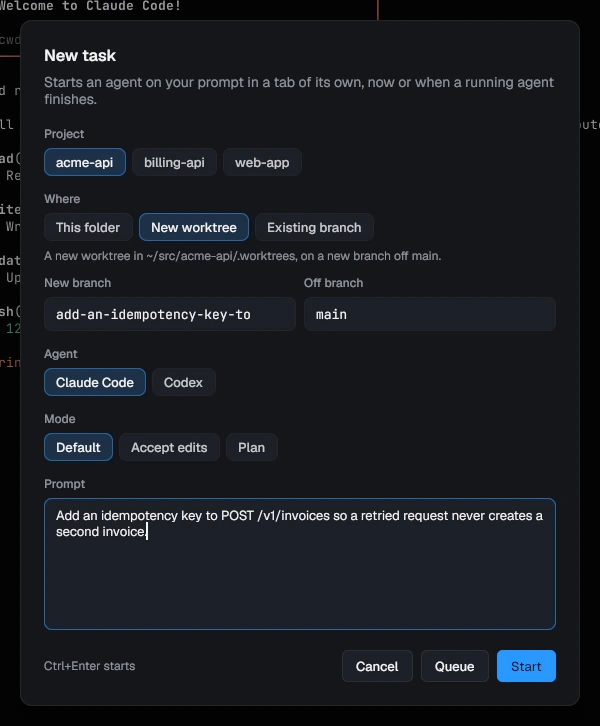
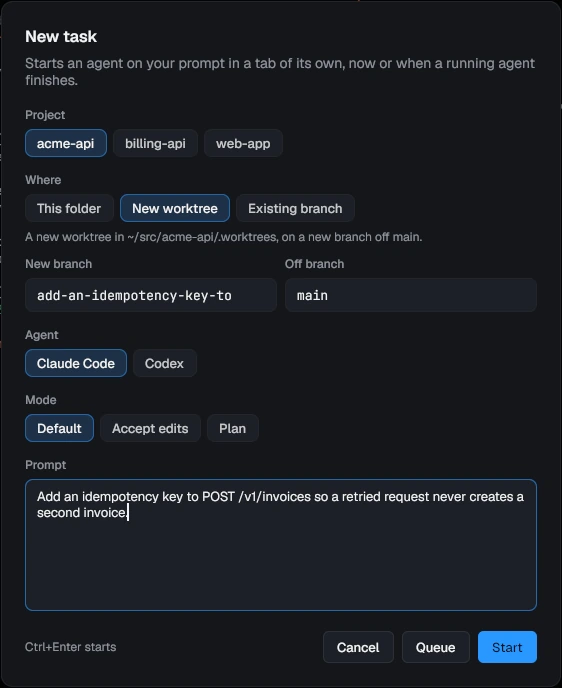
Rebuild the site around the same story as the README
Hero, install, then each outcome as a text block beside its screenshot,
alternating sides, then the agents table and the docs. Still one static
page in the app's colors with no scripts or external fonts. The palette
and New task shots are cropped to the dialog.

diff --git a/docs/index.html b/docs/index.html
@@ -4,7 +4,7 @@
 <meta charset="utf-8">
 <meta name="viewport" content="width=device-width, initial-scale=1">
 <title>pitwall</title>
-<meta name="description" content="A terminal multiplexer for coding agents. Every agent's live state at a glance, and one key jumps to the agent waiting on you.">
+<meta name="description" content="A desktop terminal for running several coding agents at once. A sidebar shows what each one is doing, and one key takes you to the one waiting on you.">
 <meta name="color-scheme" content="dark">
 <style>
 :root {
@@ -37,7 +37,8 @@ a { color: var(--blue); }
 a:hover { color: var(--fg); }
 img { display: block; max-width: 100%; height: auto; }
 code, pre { font-family: var(--mono); font-size: 14px; }
-.wrap { max-width: 1040px; margin: 0 auto; padding: 0 16px; }
+p code { color: var(--fg); background: var(--surface-2); border-radius: 4px; padding: 1px 5px; font-size: 13px; }
+.wrap { max-width: 1080px; margin: 0 auto; padding: 0 16px; }
 
 header.top {
   display: flex; align-items: center; justify-content: space-between; gap: 16px;
@@ -51,9 +52,9 @@ nav.top a:hover { color: var(--fg); }
 .hero { padding: 40px 0 32px; }
 .hero h1 {
   font-size: clamp(30px, 5vw, 48px); line-height: 1.15; letter-spacing: -0.02em;
-  margin: 0 0 16px; max-width: 22ch; font-weight: 650;
+  margin: 0 0 16px; max-width: 20ch; font-weight: 650;
 }
-.hero p.lede { color: var(--muted); font-size: 18px; max-width: 60ch; margin: 0 0 28px; }
+.hero p.lede { color: var(--muted); font-size: 18px; max-width: 58ch; margin: 0 0 24px; }
 .states { display: flex; flex-wrap: wrap; gap: 8px 18px; margin: 0 0 28px; padding: 0; list-style: none; font-size: 14px; color: var(--muted); }
 .states li::before { content: ""; display: inline-block; width: 8px; height: 8px; border-radius: 2px; margin-right: 7px; background: currentColor; vertical-align: 1px; }
 .states .working { color: var(--blue); }
@@ -72,12 +73,12 @@ nav.top a:hover { color: var(--fg); }
 .button:hover { border-color: var(--muted); color: var(--fg); }
 .button.primary:hover { background: var(--blue); border-color: var(--blue); color: var(--on-primary); }
 
-.shot { border: 1px solid var(--border); border-radius: 8px; overflow: hidden; background: var(--surface); }
-.hero-shot { margin-bottom: 56px; }
-.feature .shot img { aspect-ratio: 16 / 9; width: 100%; object-fit: cover; object-position: left top; }
+.shot { border: 1px solid var(--border); border-radius: 8px; overflow: hidden; background: var(--surface); width: fit-content; max-width: 100%; }
+.hero-shot { margin: 0 auto 56px; }
 
 section { padding: 56px 0; border-top: 1px solid var(--border); }
 section h2 { font-size: 26px; line-height: 1.25; margin: 0 0 12px; letter-spacing: -0.01em; font-weight: 650; }
+section h3 { font-size: 21px; line-height: 1.3; margin: 0 0 10px; font-weight: 650; }
 section p { color: var(--muted); margin: 0 0 14px; max-width: 62ch; }
 section p strong { color: var(--fg); font-weight: 600; }
 kbd {
@@ -86,19 +87,28 @@ kbd {
   border-radius: 4px; padding: 1px 6px; white-space: nowrap;
 }
 
-.story { display: grid; grid-template-columns: 5fr 7fr; gap: 40px; align-items: center; }
-.story ol { margin: 18px 0 0; padding-left: 20px; color: var(--muted); }
-.story ol li { margin-bottom: 8px; }
+/* Feature blocks: text beside a screenshot, the side alternating. */
+.feature { display: grid; grid-template-columns: 5fr 7fr; gap: 48px; align-items: center; }
+.feature + .feature { margin-top: 72px; }
+.feature:nth-child(even) { grid-template-columns: 7fr 5fr; }
+.feature:nth-child(even) .text { order: 2; }
+.feature .media { display: flex; justify-content: center; }
+.feature .text > div + div { margin-top: 28px; }
+.feature .tall img { max-width: 280px; }
 
-.features { display: grid; grid-template-columns: repeat(3, 1fr); gap: 28px; }
-.feature h3 { font-size: 18px; margin: 18px 0 8px; font-weight: 600; }
-.feature p { font-size: 15px; }
-
+.install-grid { display: grid; grid-template-columns: 1fr 1fr; gap: 0 28px; margin-top: 8px; }
+.install-grid > div, .feature > div { min-width: 0; }
 .install pre {
   margin: 0 0 18px; padding: 14px 16px; overflow-x: auto;
   background: var(--surface); border: 1px solid var(--border); border-radius: 6px; color: var(--fg);
 }
 .install .label { font-size: 14px; color: var(--muted); margin: 0 0 6px; }
+
+table.agents { border-collapse: collapse; width: 100%; max-width: 820px; margin: 8px 0 18px; font-size: 15px; }
+table.agents th, table.agents td { text-align: left; padding: 10px 12px 10px 0; border-bottom: 1px solid var(--border); vertical-align: top; }
+table.agents th { color: var(--muted); font-weight: 600; font-size: 14px; }
+table.agents td:first-child { color: var(--fg); font-weight: 600; white-space: nowrap; padding-right: 20px; }
+table.agents td { color: var(--muted); }
 
 .docs { display: grid; grid-template-columns: repeat(3, 1fr); gap: 0 28px; margin: 18px 0 0; padding: 0; list-style: none; }
 .docs li { padding: 10px 0; border-bottom: 1px solid var(--border); }
@@ -109,8 +119,10 @@ footer { border-top: 1px solid var(--border); padding: 28px 0 40px; color: var(-
 footer a { color: var(--muted); }
 
 @media (max-width: 800px) {
-  .story, .features { grid-template-columns: 1fr; }
-  .story { gap: 24px; }
+  .feature, .feature:nth-child(even) { grid-template-columns: 1fr; gap: 20px; }
+  .feature:nth-child(even) .text { order: 0; }
+  .feature + .feature { margin-top: 56px; }
+  .install-grid { grid-template-columns: 1fr; }
   .docs { grid-template-columns: 1fr 1fr; }
   section { padding: 40px 0; }
 }
@@ -119,6 +131,8 @@ footer a { color: var(--muted); }
   .docs { grid-template-columns: 1fr; }
   .hero { padding-top: 16px; }
   .hero p.lede { font-size: 17px; }
+  .feature .tall img { max-width: 240px; }
+  table.agents td:first-child { white-space: normal; }
 }
 </style>
 </head>
@@ -143,6 +157,7 @@ footer a { color: var(--muted); }
       pitwall
     </a>
     <nav class="top">
+      <a href="#features">Features</a>
       <a href="#install">Install</a>
       <a href="#docs">Docs</a>
       <a class="gh" href="https://github.com/quanticstudios/pitwall">GitHub</a>
@@ -150,8 +165,8 @@ footer a { color: var(--muted); }
   </header>
 
   <div class="hero">
-    <h1>Every agent's live state at a glance. One key to the one waiting on you.</h1>
-    <p class="lede">pitwall is a terminal multiplexer for Claude Code, Codex, Gemini CLI, OpenCode and pi. A sidebar shows what each agent is doing right now. Sessions survive closing the window and a reboot, and you can approve an agent from your phone.</p>
+    <h1>A desktop terminal for running several coding agents at once.</h1>
+    <p class="lede">Run five agents in five tabs and one of them is always stuck on a question you have not seen. pitwall lights up that tab, notifies you, and takes you there with one key.</p>
     <ul class="states" aria-label="Agent states the sidebar shows">
       <li class="working">Working</li>
       <li class="input">Input</li>
@@ -167,65 +182,149 @@ footer a { color: var(--muted); }
   </div>
 
   <div class="shot hero-shot">
-    <img src="media/pitwall-hero.webp" width="1600" height="900" alt="The pitwall window: a sidebar of Claude Code and Codex tabs with live states, a pane that rings green when its agent finishes, and the jump key switching to the tab whose agent asks for approval">
+    <img src="media/pitwall-hero.webp" width="1280" height="800" alt="The pitwall window: a sidebar of Claude Code and Codex tabs grouped by project, with Working, Approval, Input and Done states, pull request chips and Allow and Deny buttons; the open tab runs three agents in split panes">
   </div>
 </div>
 
 <main>
-  <section>
-    <div class="wrap story">
-      <div>
-        <h2>One agent asks, one key, approved</h2>
-        <p>You are reading code in one tab while three agents work in others. You do not watch them.</p>
-        <ol>
-          <li>A Codex pane finishes in the background and rings green.</li>
-          <li>The billing agent asks for approval. Its row turns yellow and you get a desktop notification.</li>
-          <li><kbd>Ctrl+Shift+U</kbd> jumps to it, in any session. Press it again for the next one.</li>
-        </ol>
-        <p>With hooks installed the states are exact. Without them, pitwall reads Claude Code, Codex and pi from the screen.</p>
-      </div>
-      <div class="shot">
-        <img src="media/attention.webp" width="880" height="495" loading="lazy" alt="A Codex pane finishes in the background and rings green, the billing tab asks for approval, and Ctrl+Shift+U jumps to each in turn">
-      </div>
-    </div>
-  </section>
-
-  <section>
-    <div class="wrap features">
-      <div class="feature">
-        <div class="shot"><img src="media/survive.webp" width="880" height="495" loading="lazy" alt="The window closes, pitwall ls shows every tab still running, the window comes back, and after a reboot the agents resume"></div>
-        <h3>Survives the window and a reboot</h3>
-        <p>A background daemon owns every terminal. Close the window and the agents keep working. After a reboot, tabs come back in their folders with agents resumed where they left off.</p>
-      </div>
-      <div class="feature">
-        <div class="shot"><img src="media/notify.webp" width="880" height="495" loading="lazy" alt="A test pane runs npm test and pitwall notify, then rings amber and sends a desktop notification saying tests passed"></div>
-        <h3>Any command can ask for you</h3>
-        <p><code>npm test &amp;&amp; pitwall notify "tests passed"</code> rings the pane it ran in. Bells and terminal notifications (OSC 9, 777, 99) ring it too. No hooks needed.</p>
-      </div>
-      <div class="feature">
-        <div class="shot"><img src="media/sessions.webp" width="1280" height="800" loading="lazy" alt="The session switcher: three sessions with their agents and live counts on the left, the highlighted session's sidebar on the right"></div>
-        <h3>Sessions, like tmux</h3>
-        <p>One session per project, each with its own sidebar. The switcher shows how many agents are working and how many need you, and draws a session's sidebar before you switch.</p>
-      </div>
-    </div>
-  </section>
-
   <section id="install" class="install">
     <div class="wrap">
       <h2>Install</h2>
-      <p>The install script downloads the latest release, checks it against the release's checksums and installs <code>pitwall</code> in <code>~/.local/bin</code>. pitwall is in beta: used every day on Linux, new on macOS and Windows.</p>
-      <p class="label">Homebrew, on macOS or Linux</p>
-      <pre><code>brew install quanticstudios/tap/pitwall</code></pre>
-      <p class="label">Scoop, on Windows</p>
-      <pre><code>scoop bucket add quanticstudios https://github.com/quanticstudios/scoop-bucket
+      <p>pitwall is in beta. It runs every day on Linux; the macOS and Windows builds are newer. Your tabs and config carry over between releases.</p>
+      <div class="install-grid">
+        <div>
+          <p class="label">Homebrew, on macOS or Linux</p>
+          <pre><code>brew install quanticstudios/tap/pitwall</code></pre>
+          <p class="label">Or the install script, on Linux or macOS</p>
+          <pre><code>curl -fsSL https://raw.githubusercontent.com/quanticstudios/pitwall/main/scripts/get.sh | sh</code></pre>
+        </div>
+        <div>
+          <p class="label">Scoop, on Windows</p>
+          <pre><code>scoop bucket add quanticstudios https://github.com/quanticstudios/scoop-bucket
 scoop install pitwall</code></pre>
-      <p class="label">Or the install script, on Linux or macOS</p>
-      <pre><code>curl -fsSL https://raw.githubusercontent.com/quanticstudios/pitwall/main/scripts/get.sh | sh</code></pre>
-      <p class="label">Windows, in PowerShell</p>
-      <pre><code>irm https://raw.githubusercontent.com/quanticstudios/pitwall/main/scripts/get.ps1 | iex</code></pre>
-      <p class="label">Then</p>
-      <pre><code>pitwall</code></pre>
-      <p>The first window lists the agents it found on your <code>PATH</code>, installs their hooks with one button, and starts one in a tab.</p>
+          <p class="label">Or the install script, in PowerShell</p>
+          <pre><code>irm https://raw.githubusercontent.com/quanticstudios/pitwall/main/scripts/get.ps1 | iex</code></pre>
+        </div>
+      </div>
+      <p>Then run <code>pitwall</code>. The first window lists the agents on your <code>PATH</code> and sets up their status reporting with one button. <a href="https://github.com/quanticstudios/pitwall/blob/main/docs/install.md">The install page</a> covers platforms, pinning a version, updates and building from source.</p>
+    </div>
+  </section>
+
+  <section id="features">
+    <div class="wrap">
+      <div class="feature">
+        <div class="text">
+          <div>
+            <h3>See every agent at a glance</h3>
+            <p><strong>Every tab's row says what its agent is doing: Working, Input, Approval, Plan, Done or Error.</strong> A tab with three agents in split panes lists each on its own line.</p>
+            <p>The row also shows the branch, the lines changed, and the pull request with its CI and review. Merge it from the tab's menu; once merged, Archive closes the tab and removes its worktree and branch.</p>
+          </div>
+          <div>
+            <h3>Get to the one that needs you</h3>
+            <p><strong><kbd>Ctrl+Shift+U</kbd> jumps to the agent that started waiting most recently, in any session.</strong> Its pane gets a ring in the state's color and you get a desktop notification. Press the key again for the next one.</p>
+            <p>Any command can ask too: <code>npm test &amp;&amp; pitwall notify "tests passed"</code>.</p>
+          </div>
+        </div>
+        <div class="media">
+          <div class="shot tall"><img src="media/sidebar.webp" width="288" height="665" loading="lazy" alt="The sidebar: an acme-api group with tabs Working, Approval and a tab of three agents listed one per row, a queued task, and a web-app group with an Input tab and a merged Done tab"></div>
+        </div>
+      </div>
+
+      <div class="feature">
+        <div class="text">
+          <h3>Answer without switching windows</h3>
+          <p><strong>Allow or Deny a permission prompt from the sidebar, the notification or your phone.</strong> <kbd>Ctrl+Shift+Y</kbd> and <kbd>Ctrl+Shift+D</kbd> press the row's buttons.</p>
+          <p>Pair your phone by QR code and it lists what needs you, takes typed answers and gets push notifications while locked. There is no account and no relay: the phone talks to your computer over your own network.</p>
+        </div>
+        <div class="media">
+          <div class="shot tall"><img src="media/phone.webp" width="780" height="1688" loading="lazy" alt="The phone page: approvals for three tabs with Allow and Deny buttons, and a Codex question with an answer box"></div>
+        </div>
+      </div>
+
+      <div class="feature">
+        <div class="text">
+          <h3>Review what the agent changed</h3>
+          <p><strong><kbd>Ctrl+Shift+R</kbd> opens the tab's changes. Comment on any line, then send all the comments to the agent as one prompt.</strong></p>
+          <p>Untracked files are included. Tick off the files you have read; one the agent touches again comes back unticked. Throw away a file's changes with one button.</p>
+        </div>
+        <div class="media">
+          <div class="shot"><img src="media/review.webp" width="992" height="780" loading="lazy" alt="The review view: three changed files on the left, the diff of rateLimit.ts on the right with two pending comments, and a Send 2 comments to claude button"></div>
+        </div>
+      </div>
+
+      <div class="feature">
+        <div class="text">
+          <h3>Run agents side by side without collisions</h3>
+          <p><strong>Give each agent its own git worktree, and pitwall warns you when two of them edit the same file.</strong> Start one from any branch or a pull request number.</p>
+          <p>Each gets its own ports (3010-3019, then 3020-3029), so two dev servers stop fighting over 3000, and can copy <code>.env</code> and run your setup command. Rows turn amber when two branches touch the same files and red when merging would conflict; the hover card says which to merge first.</p>
+        </div>
+        <div class="media">
+          <div class="shot"><img src="media/conflict.webp" width="600" height="420" loading="lazy" alt="The hover card of the Retry failed webhooks tab: its pull request with one check passed and one running, a red warning that it conflicts with the rate limiting tab in src/server/router.ts, and its ports"></div>
+        </div>
+      </div>
+
+      <div class="feature">
+        <div class="text">
+          <h3>Line up the next task</h3>
+          <p><strong>New task (<kbd>Ctrl+Shift+A</kbd>) starts an agent on a prompt in a tab of its own, or queues it until a running agent finishes.</strong></p>
+          <p>Pick the project, a fresh worktree or a branch, the agent and its permission mode. Cap how many agents run at once, and the queue starts the next task as one finishes.</p>
+        </div>
+        <div class="media">
+          <div class="shot"><img src="media/new-task.webp" width="562" height="688" loading="lazy" alt="The New task dialog: project acme-api, a new worktree on a branch named from the prompt, Claude Code in its default mode, and the prompt, with Queue and Start buttons"></div>
+        </div>
+      </div>
+
+      <div class="feature">
+        <div class="text">
+          <h3>Know what it costs</h3>
+          <p><strong>See how much of your Claude Code and Codex plan limits you have used, and when you will hit 100% at this pace.</strong></p>
+          <p>Settings, Usage also adds up what the last 7, 30 or 90 days would cost at API prices, per agent and per day. The agent panel shows each session's tokens and how full its context is.</p>
+        </div>
+        <div class="media">
+          <div class="shot"><img src="media/limits.webp" width="767" height="620" loading="lazy" alt="Settings, Usage: Claude Code's 5-hour window at 72% with the time it would reach 100%, its weekly window at 48%, and Codex's windows at 34% and 61%"></div>
+        </div>
+      </div>
+
+      <div class="feature">
+        <div class="text">
+          <h3>Never lose a session</h3>
+          <p><strong>Close the window, reboot or upgrade, and your tabs come back in their folders with the agents resumed where they left off.</strong></p>
+          <p>Sessions work like tmux, and the switcher (<kbd>Ctrl+Shift+S</kbd>) shows every session's agents before you switch. <code>pitwall --host box</code> runs them on another machine over ssh, so they keep going when the laptop closes.</p>
+        </div>
+        <div class="media">
+          <div class="shot"><img src="media/sessions.webp" width="738" height="560" loading="lazy" alt="The session switcher: sessions acme, billing and docs with their working and needs-you counts, and the billing session's tabs on the right"></div>
+        </div>
+      </div>
+
+      <div class="feature">
+        <div class="text">
+          <h3>Drive it from the keyboard</h3>
+          <p><strong><kbd>Ctrl+Shift+P</kbd> lists every action with its keys.</strong> <kbd>Ctrl+Shift+F</kbd> searches the scrollback, copy mode (<kbd>Ctrl+Shift+X</kbd>) selects with vi keys, and a selection stays on its text while new output scrolls past.</p>
+          <p>Pick one of four themes and your own fonts, and rebind any key in Settings or <code>config.toml</code>. On macOS the keys sit on Cmd.</p>
+        </div>
+        <div class="media">
+          <div class="shot"><img src="media/palette.webp" width="602" height="422" loading="lazy" alt="The command palette filtered by pr: Open PR and Merge PR first, then tab and pane actions with their keys"></div>
+        </div>
+      </div>
+    </div>
+  </section>
+
+  <section id="agents">
+    <div class="wrap">
+      <h2>Works with</h2>
+      <table class="agents">
+        <thead><tr><th>Agent</th><th>What pitwall shows</th></tr></thead>
+        <tbody>
+          <tr><td>Claude Code</td><td>Every state, Allow and Deny, resume, side panel, cost, plan limits</td></tr>
+          <tr><td>Codex</td><td>Its state, Allow and Deny, resume, side panel, cost, plan limits</td></tr>
+          <tr><td>Gemini CLI</td><td>Every state but Error, resume, side panel, cost</td></tr>
+          <tr><td>OpenCode</td><td>Working, Input, Approval, Done and Error, resume</td></tr>
+          <tr><td>pi</td><td>Working, Done and Error, resume, side panel, cost</td></tr>
+          <tr><td>Cursor CLI</td><td>Working, Done and Error, resume</td></tr>
+          <tr><td>Aider, Amp</td><td>Aider's state read from its screen; Amp's logo, and its bell rings</td></tr>
+        </tbody>
+      </table>
+      <p>Builds for Linux, macOS and Windows 10 and 11, on x86_64 and arm64.</p>
     </div>
   </section>
 
@@ -233,15 +332,15 @@ scoop install pitwall</code></pre>
     <div class="wrap">
       <h2>Docs</h2>
       <ul class="docs">
-        <li><a href="https://github.com/quanticstudios/pitwall/blob/main/docs/usage.md">Using pitwall</a><span>Watching agents, sessions, tabs and panes, worktrees</span></li>
-        <li><a href="https://github.com/quanticstudios/pitwall/blob/main/docs/keys.md">Keybindings</a><span>Both presets, tab mode, pane mode, find</span></li>
+        <li><a href="https://github.com/quanticstudios/pitwall/blob/main/docs/usage.md">Using pitwall</a><span>First run, watching agents, sessions, review, worktrees, tasks</span></li>
+        <li><a href="https://github.com/quanticstudios/pitwall/blob/main/docs/keys.md">Keybindings</a><span>The presets, tab mode, pane mode, find, copy mode</span></li>
         <li><a href="https://github.com/quanticstudios/pitwall/blob/main/docs/cli.md">Command line</a><span>Every command, and driving tabs from scripts</span></li>
         <li><a href="https://github.com/quanticstudios/pitwall/blob/main/docs/config.md">Configuration</a><span>config.toml, themes, fonts</span></li>
         <li><a href="https://github.com/quanticstudios/pitwall/blob/main/docs/hooks.md">Hooks</a><span>What the installer changes for each agent</span></li>
-        <li><a href="https://github.com/quanticstudios/pitwall/blob/main/docs/phone.md">Phone</a><span>Answer agents from your phone</span></li>
+        <li><a href="https://github.com/quanticstudios/pitwall/blob/main/docs/phone.md">Phone</a><span>Pairing, push notifications, what the page sends</span></li>
         <li><a href="https://github.com/quanticstudios/pitwall/blob/main/docs/remote.md">Remote hosts</a><span>Agents on another machine over ssh</span></li>
-        <li><a href="https://github.com/quanticstudios/pitwall/blob/main/docs/decisions.md">Decisions</a><span>Approval recommendations and triage</span></li>
-        <li><a href="https://github.com/quanticstudios/pitwall/blob/main/docs/install.md">Install</a><span>Platform notes, updates, building from source</span></li>
+        <li><a href="https://github.com/quanticstudios/pitwall/blob/main/docs/decisions.md">Decisions</a><span>Approval advice, triage, Decision stats</span></li>
+        <li><a href="https://github.com/quanticstudios/pitwall/blob/main/docs/install.md">Install</a><span>Platforms, updates, building from source</span></li>
       </ul>
     </div>
   </section>
